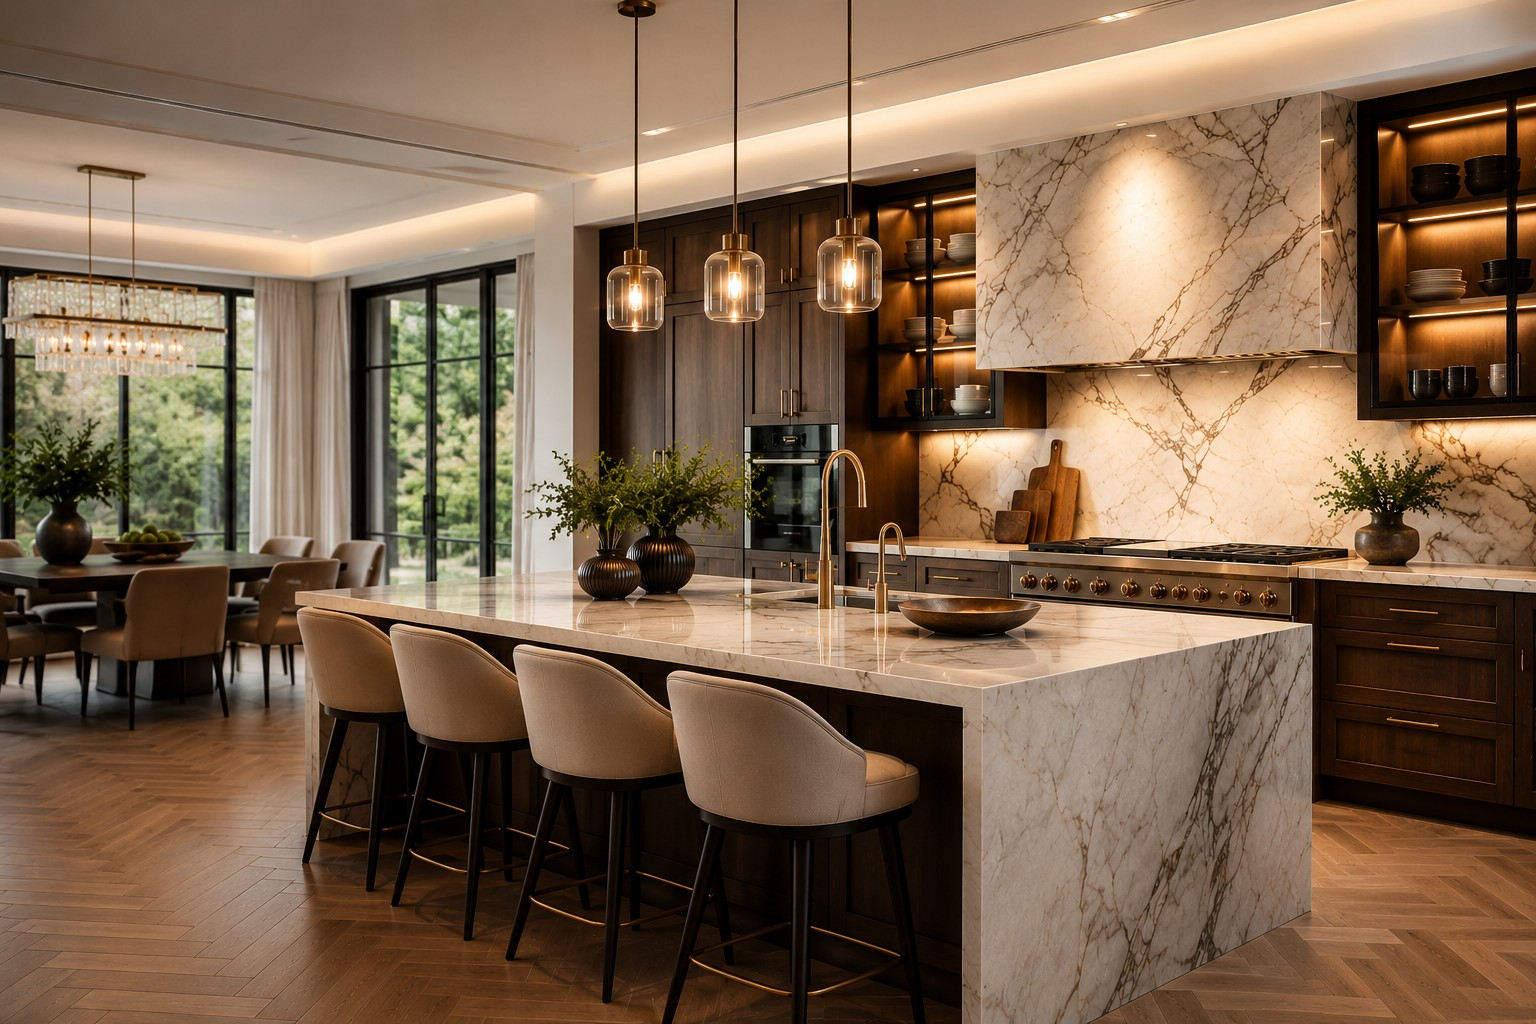
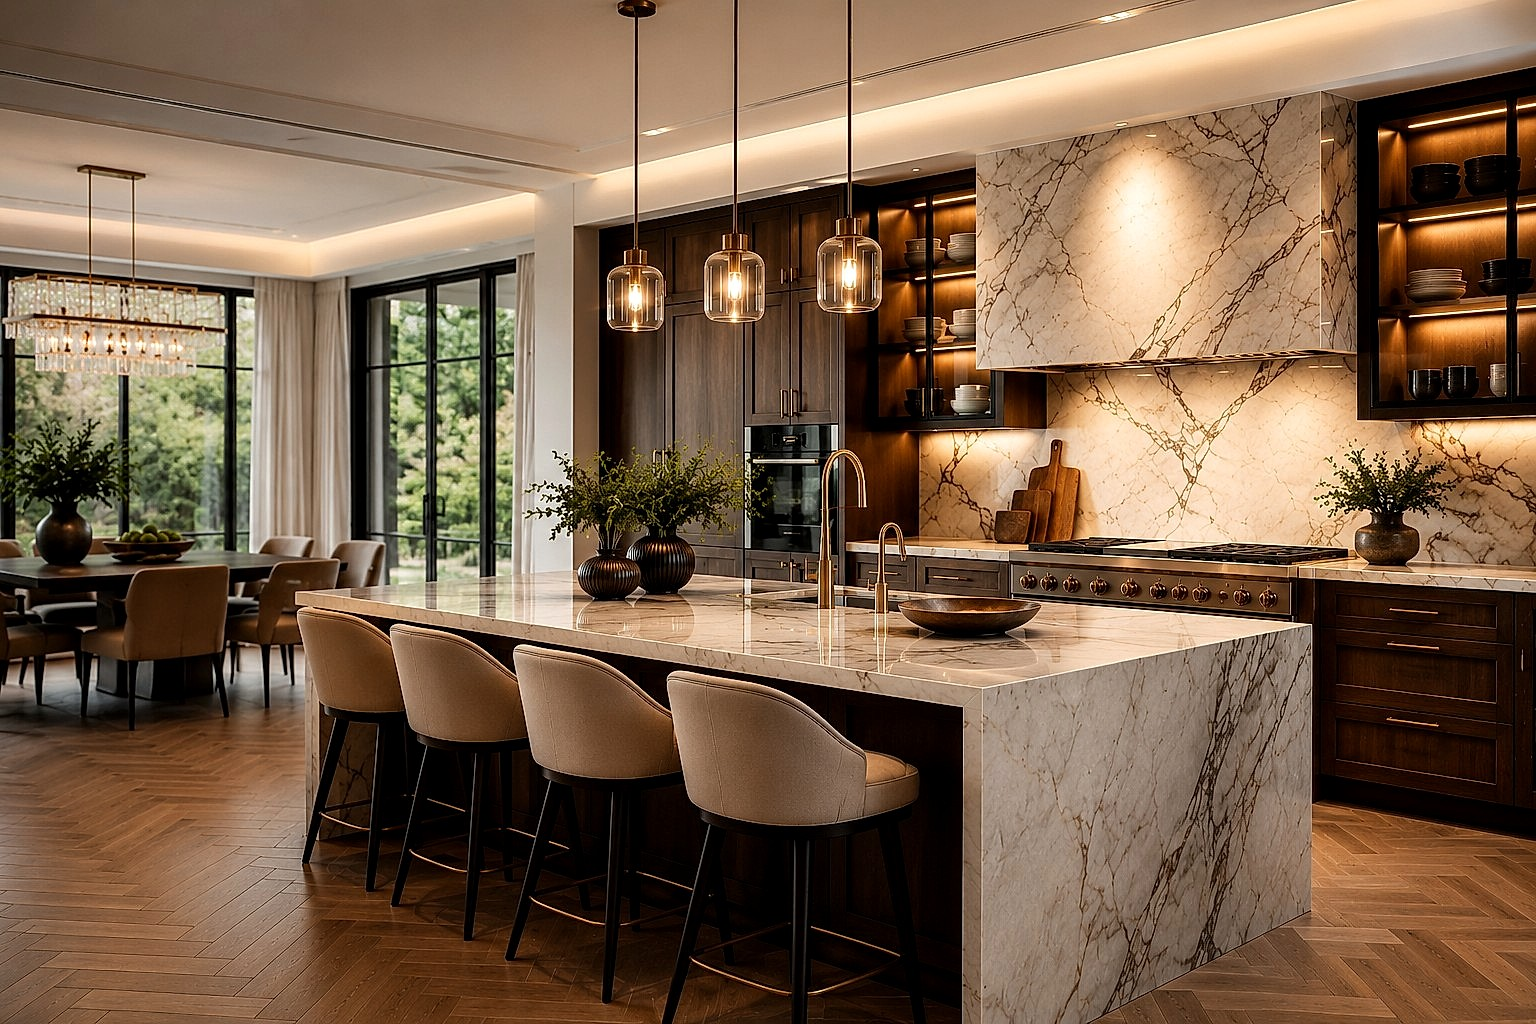
feat: add 5 Living Space portfolio projects
Fills the previously-empty "Living Spaces" portfolio filter (14 -> 19
total projects) with real photos, backed up to images-original/living/
and sharpened for consistency with the rest of the site. Added
"living" to the sharpen script's category list so future re-runs
cover it automatically, and updated the filterPortfolio test that
previously asserted "living" always returns zero items.

diff --git a/src/data/portfolio.test.js b/src/data/portfolio.test.js
@@ -12,8 +12,14 @@ describe("filterPortfolio", () => {
     expect(result.every((item) => item.category === "laundry")).toBe(true);
   });
 
-  it("returns an empty array for a category with no items", () => {
-    expect(filterPortfolio(portfolioItems, "living")).toEqual([]);
+  it("returns only living-space items for the living category", () => {
+    const result = filterPortfolio(portfolioItems, "living");
+    expect(result.length).toBe(5);
+    expect(result.every((item) => item.category === "living")).toBe(true);
+  });
+
+  it("returns an empty array for a category with no matching items", () => {
+    expect(filterPortfolio(portfolioItems, "office")).toEqual([]);
   });
 });
 

diff --git a/src/data/portfolio.js b/src/data/portfolio.js
@@ -21,6 +21,11 @@ export const portfolioItems = [
   { id: "laundry-2", category: "laundry", tag: "Laundry", title: "Terrazzo Butler’s Laundry", desc: "Terrazzo tile and warm oak joinery", img: "/images/laundry/laundry-2.jpg" },
   { id: "laundry-3", category: "laundry", tag: "Laundry", title: "Marble Laundry Counter", desc: "Brushed brass fittings, honed marble benchtop", img: "/images/laundry/laundry-3.jpg" },
   { id: "laundry-4", category: "laundry", tag: "Laundry", title: "Oak Laundry Suite", desc: "Open shelving and a brass tap over dual appliances", img: "/images/laundry/laundry-4.jpg" },
+  { id: "living-1", category: "living", tag: "Living", title: "Coffered Living Room", desc: "Marble fireplace framed by custom built-ins", img: "/images/living/living-1.jpg" },
+  { id: "living-2", category: "living", tag: "Living", title: "Bar Cart Lounge", desc: "Sectional seating with a vintage bar cart", img: "/images/living/living-2.jpg" },
+  { id: "living-3", category: "living", tag: "Living", title: "Slatted Wood Lounge", desc: "Concrete walls and timber slats with warm accents", img: "/images/living/living-3.jpg" },
+  { id: "living-4", category: "living", tag: "Living", title: "Neutral Sectional Lounge", desc: "Stone nesting tables beneath a woven pendant", img: "/images/living/living-4.jpg" },
+  { id: "living-5", category: "living", tag: "Living", title: "City View Living Room", desc: "Floor-to-ceiling glass framing the evening skyline", img: "/images/living/living-5.jpg" },
 ];
 
 export function filterPortfolio(items, key) {

diff --git a/scripts/sharpen-images.js b/scripts/sharpen-images.js
@@ -5,7 +5,7 @@ import sharp from "sharp";
 
 const IMAGES_DIR = path.resolve("public/images");
 const BACKUP_DIR = path.resolve("images-original");
-const CATEGORIES = ["bathroom", "kitchen", "laundry", "logo", "team"];
+const CATEGORIES = ["bathroom", "kitchen", "laundry", "living", "logo", "team"];
 
 async function listJpgs(dir) {
   const entries = await readdir(dir);